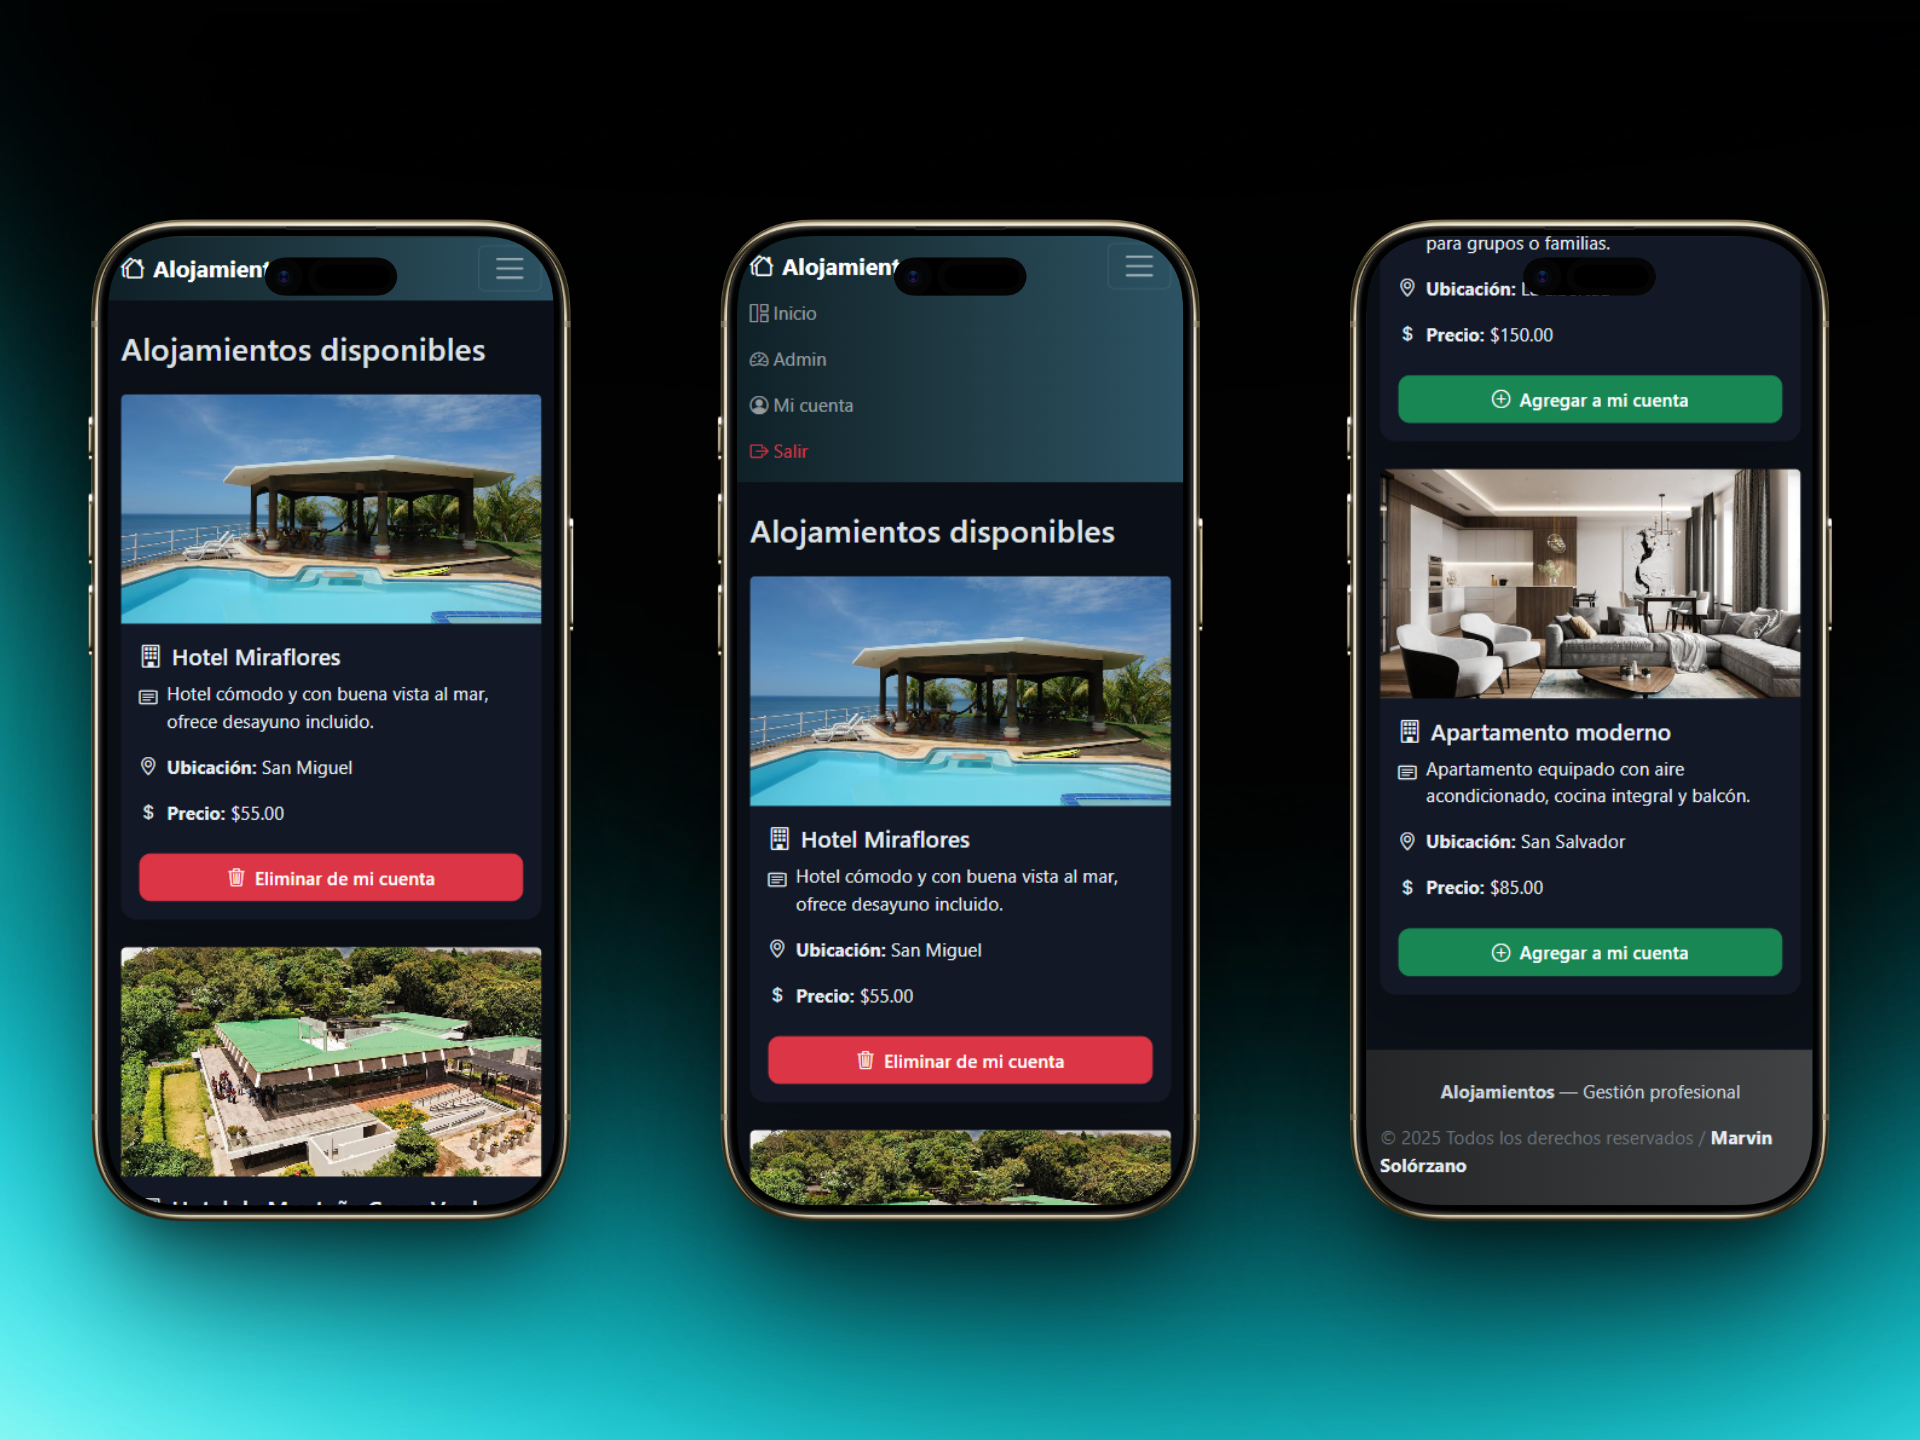
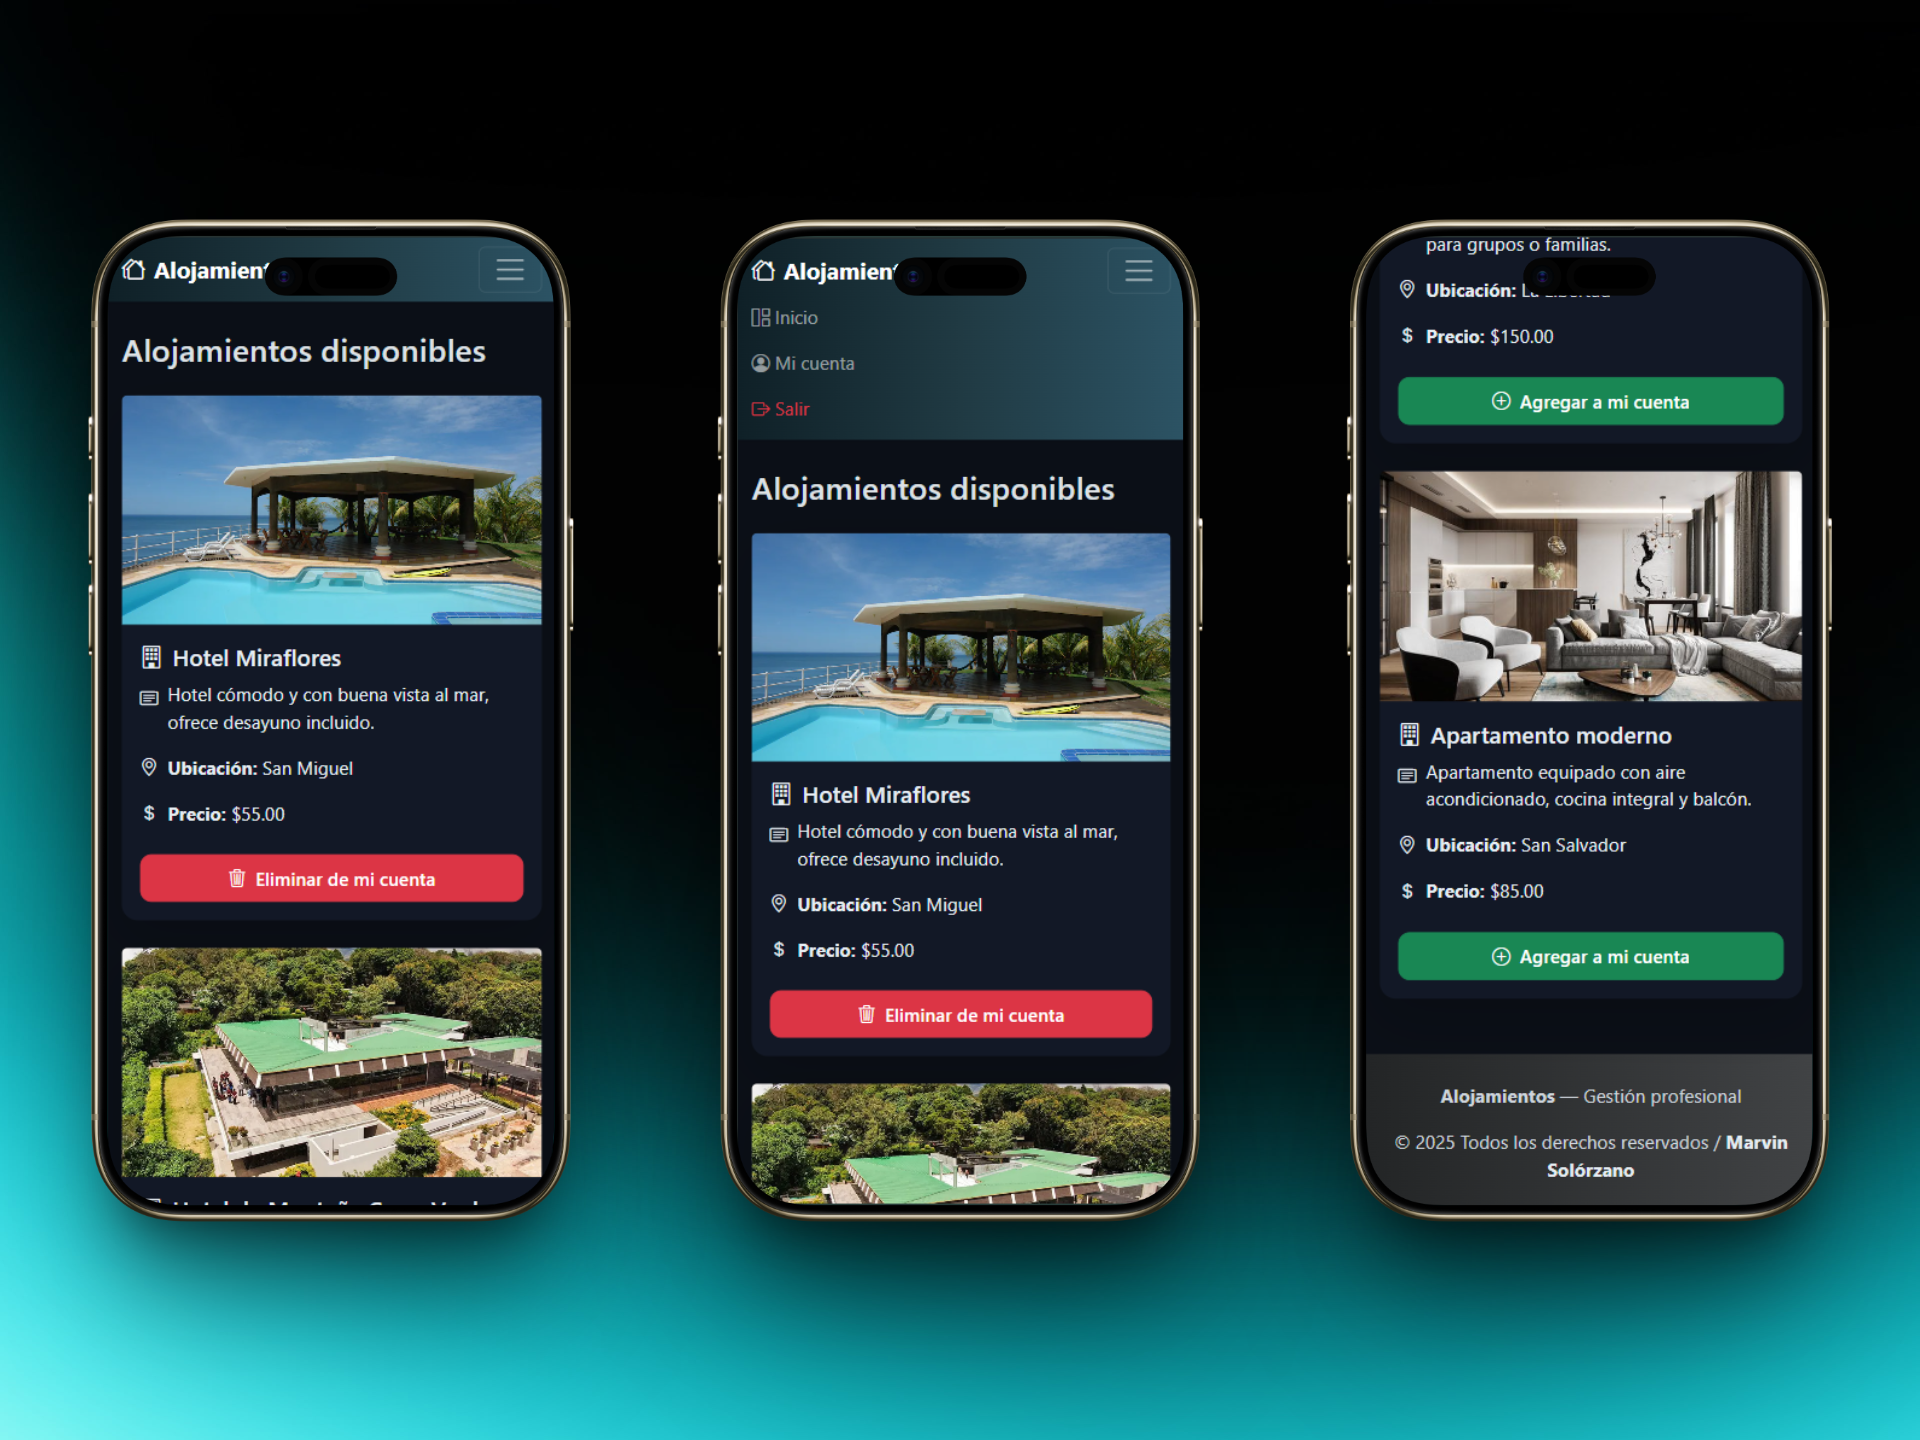
Mejorar el diseño resposivo del panel administrativo para movil

diff --git a/public/assets/css/style.css b/public/assets/css/style.css
@@ -86,3 +86,10 @@ main {
 footer {
   margin-top: auto;
 }
+
+.text-clamp-2{
+  display:-webkit-box;
+  -webkit-box-orient: vertical;
+  -webkit-line-clamp: 2;
+  overflow: hidden;
+}

diff --git a/app/views/admin/index.php b/app/views/admin/index.php
@@ -1,33 +1,111 @@
-<div class="card shadow-lg"><div class="card-header d-flex justify-content-between align-items-center"><h3 class="m-0"><i class="bi bi-speedometer2 me-2"></i>Panel administrador — Alojamientos</h3><a href="index.php?page=admin&action=create" class="btn btn-success"><i class="bi bi-plus-circle"></i> Agregar</a></div><div class="card-body"><div class="row">
-  <div class="col-12">
-    <table class="table table-striped table-hover align-middle">
-      <thead><tr><th>ID</th><th>Título</th><th>Descripción</th><th>Ubicación</th><th>Precio</th><th>Imagen</th><th>Acciones</th></tr></thead>
-      <tbody>
-        <?php foreach ($list as $a): ?>
-          <tr>
-            <td><?php echo $a['id']; ?></td>
-            <td><?php echo htmlspecialchars($a['title']); ?></td>
-            <td><?php echo htmlspecialchars($a['description']); ?></td>
-            <td><?php echo htmlspecialchars($a['location']); ?></td>
-            <td><?php echo number_format($a['price'],2); ?></td>
-            <td style="width:120px;"><img src="<?php echo ($a['image']?htmlspecialchars($a['image']):'https://via.placeholder.com/120x80'); ?>" style="width:120px;height:80px;object-fit:cover;"></td>
-            <td class="text-nowrap">
-              <div class="d-inline-flex align-items-center gap-2">
-                <a class="btn btn-warning btn-sm d-inline-flex align-items-center gap-2"
-                  href="index.php?page=admin&action=edit&id=<?php echo $a['id']; ?>">
-                  <i class="bi bi-pencil-square"></i><span>Editar</span>
-                </a>
-                <a class="btn btn-danger btn-sm d-inline-flex align-items-center gap-2"
-                  href="index.php?page=admin&action=delete&id=<?php echo $a['id']; ?>"
-                  onclick="return confirm('¿Eliminar alojamiento?')">
-                  <i class="bi bi-trash3"></i><span>Eliminar</span>
-                </a>
+<div class="card shadow-lg">
+  <div class="card-header d-flex justify-content-between align-items-center">
+    <h3 class="m-0">
+      <i class="bi bi-speedometer2 me-2"></i>Panel administrador — Alojamientos
+    </h3>
+    <a href="index.php?page=admin&action=create" class="btn btn-success">
+      <i class="bi bi-plus-circle"></i> Agregar
+    </a>
+  </div>
+
+  <div class="card-body">
+    <div class="row">
+      <div class="col-12">
+
+        <!-- ====== Tabla: visible desde md (>=768px) ====== -->
+        <div class="d-none d-md-block">
+          <div class="table-responsive">
+            <table class="table table-striped table-hover align-middle mb-0">
+              <thead>
+                <tr>
+                  <th>ID</th>
+                  <th>Título</th>
+                  <th>Descripción</th>
+                  <th>Ubicación</th>
+                  <th>Precio</th>
+                  <th>Imagen</th>
+                  <th>Acciones</th>
+                </tr>
+              </thead>
+              <tbody>
+                <?php foreach ($list as $a): ?>
+                  <tr>
+                    <td><?php echo $a['id']; ?></td>
+                    <td><?php echo htmlspecialchars($a['title']); ?></td>
+                    <td><?php echo htmlspecialchars($a['description']); ?></td>
+                    <td><?php echo htmlspecialchars($a['location']); ?></td>
+                    <td><?php echo number_format($a['price'], 2); ?></td>
+                    <td style="width:120px;">
+                      <img
+                        src="<?php echo ($a['image'] ? htmlspecialchars($a['image']) : 'https://via.placeholder.com/120x80'); ?>"
+                        style="width:120px;height:80px;object-fit:cover;"
+                        class="rounded"
+                        alt="">
+                    </td>
+                    <td class="text-nowrap">
+                      <div class="d-inline-flex align-items-center gap-2">
+                        <a class="btn btn-warning btn-sm d-inline-flex align-items-center gap-2"
+                          href="index.php?page=admin&action=edit&id=<?php echo $a['id']; ?>">
+                          <i class="bi bi-pencil-square"></i><span>Editar</span>
+                        </a>
+                        <a class="btn btn-danger btn-sm d-inline-flex align-items-center gap-2"
+                          href="index.php?page=admin&action=delete&id=<?php echo $a['id']; ?>"
+                          onclick="return confirm('¿Eliminar alojamiento?')">
+                          <i class="bi bi-trash3"></i><span>Eliminar</span>
+                        </a>
+                      </div>
+                    </td>
+                  </tr>
+                <?php endforeach; ?>
+              </tbody>
+            </table>
+          </div>
+        </div>
+
+        <!-- ====== Cards: visibles solo en móvil (<768px) ====== -->
+        <div class="d-md-none">
+          <?php foreach ($list as $a): ?>
+            <div class="card border-0 shadow-sm mb-3">
+              <div class="card-body">
+                <div class="d-flex gap-3">
+                  <img
+                    src="<?php echo ($a['image'] ? htmlspecialchars($a['image']) : 'https://via.placeholder.com/160x100'); ?>"
+                    alt=""
+                    class="rounded"
+                    style="width:120px;height:80px;object-fit:cover;">
+                  <div class="flex-grow-1">
+                    <h6 class="mb-1"><?php echo htmlspecialchars($a['title']); ?></h6>
+                    <div class="text-secondary small text-clamp-2 mb-2">
+                      <?php echo htmlspecialchars($a['description']); ?>
+                    </div>
+                    <div class="small d-flex flex-wrap gap-3">
+                      <span><i class="bi bi-geo-alt"></i>
+                        <?php echo htmlspecialchars($a['location']); ?>
+                      </span>
+                      <span><i class="bi bi-cash"></i>
+                        <?php echo number_format($a['price'], 2); ?>
+                      </span>
+                    </div>
+                  </div>
+                </div>
+
+                <div class="mt-3 d-flex justify-content-end gap-2">
+                  <a href="index.php?page=admin&action=edit&id=<?php echo $a['id']; ?>"
+                    class="btn btn-warning btn-sm d-inline-flex align-items-center gap-1">
+                    <i class="bi bi-pencil-square"></i><span>Editar</span>
+                  </a>
+                  <a href="index.php?page=admin&action=delete&id=<?php echo $a['id']; ?>"
+                    class="btn btn-danger btn-sm d-inline-flex align-items-center gap-1"
+                    onclick="return confirm('¿Eliminar alojamiento?');">
+                    <i class="bi bi-trash3"></i><span>Eliminar</span>
+                  </a>
+                </div>
               </div>
-            </td>
-          </tr>
-        <?php endforeach; ?>
-      </tbody>
-    </table>
+            </div>
+          <?php endforeach; ?>
+        </div>
+
+      </div>
+    </div>
   </div>
 </div>
-</div></div>

diff --git a/app/views/layout/footer.php b/app/views/layout/footer.php
@@ -1,15 +1,24 @@
 
     </main>
     <footer class="footer-pro mt-auto py-4">
-      <div class="container-xxl d-flex flex-column flex-md-row justify-content-between align-items-center">
-        <div class="mb-3 mb-md-0">
-          <strong>Alojamientos</strong> — Gestión profesional
-        </div>
-        <div class="text-secondary ms-md-3">
-          © <?php echo date('Y'); ?> Todos los derechos reservados / <a href="https://marvinsolorzano.com/" target="_blank"><strong>Marvin Solórzano</strong></a>
-        </div>
+  <div class="container-xxl">
+    <div class="row gy-3 align-items-center">
+      <!-- Título: ocupa todo en móvil (centrado), a la izquierda desde md -->
+      <div class="col-12 col-md text-center text-md-start">
+        <strong>Alojamientos</strong> — Gestión profesional
       </div>
-    </footer>
+
+      <!-- Copyright: ocupa todo en móvil (centrado), a la derecha desde md -->
+      <div class="col-12 col-md-auto text-center text-md-end">
+        © <?php echo date('Y'); ?> Todos los derechos reservados /
+        <a href="https://marvinsolorzano.com/" target="_blank">
+          <strong>Marvin Solórzano</strong>
+        </a>
+      </div>
+    </div>
+  </div>
+</footer>
+
     <script src="https://cdn.jsdelivr.net/npm/bootstrap@5.3.3/dist/js/bootstrap.bundle.min.js"></script>
   </body>
 </html>
